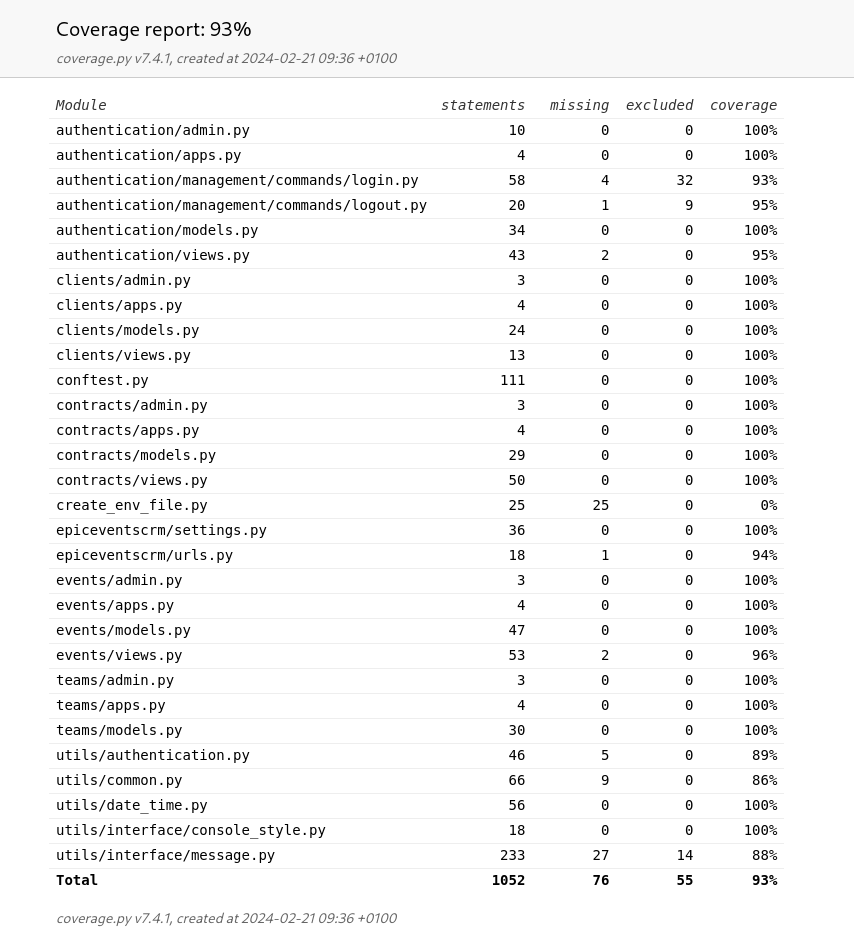
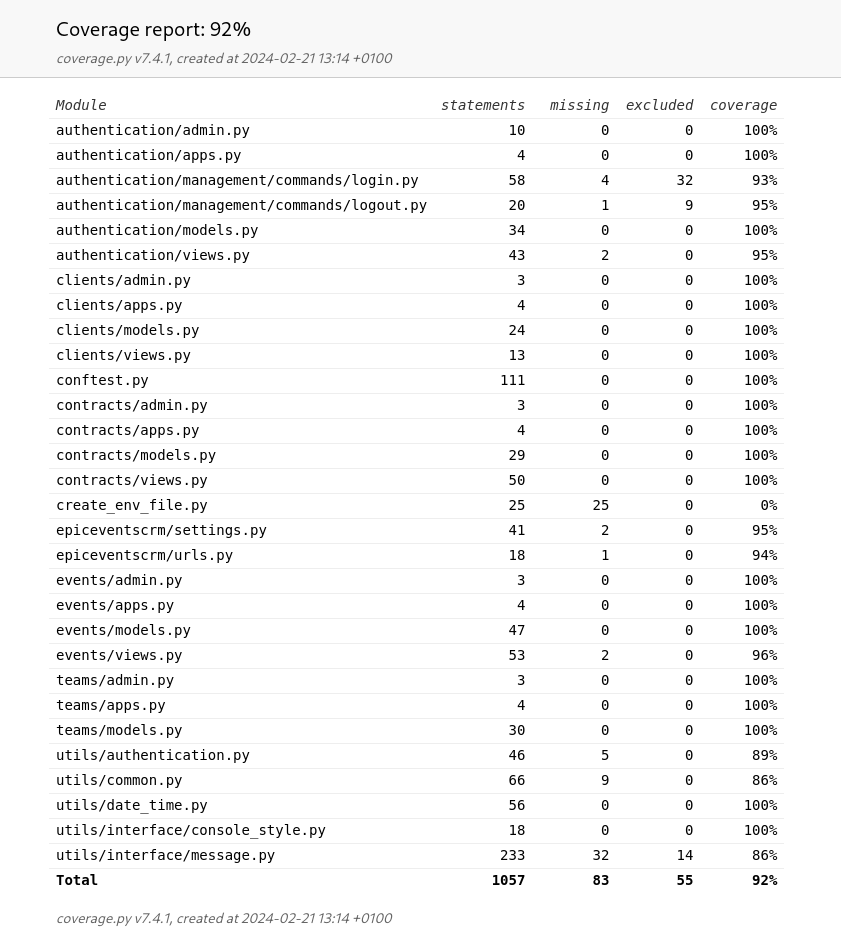
Fix login message condition and update readme

diff --git a/utils/tests.py b/utils/tests.py
@@ -280,12 +280,6 @@ class TestInterface:
         assert valid is True
         assert contract == signed_contract
 
-    def test_validate_uuid_value_error(self, capsys):
-        with pytest.raises(SystemExit):
-            valid, contract = message.validate_uuid("pdovdjusn")
-        capture = capsys.readouterr()
-        assert "Invalid id" in capture.out
-
     def test_prompt_for_contract_id(self, capsys, monkeypatch, signed_contract):
         monkeypatch.setattr("sys.stdin", io.StringIO(str(signed_contract.id)))
         result = message.prompt_for_contract_id()

diff --git a/authentication/management/commands/login.py b/authentication/management/commands/login.py
@@ -137,7 +137,7 @@ class Command(RichCommand):  # pragma: no cover
             password = ""
 
         auth_data = request_get_token(email, password)
-        if auth_data["token"] is not None:
+        if auth_data["token"] is not None and auth_data["token"].strip() != "":
             self.console.print(
                 "You have successfully logged in with the email "
                 + f"[bold blue]{auth_data['email']}[/bold blue] :smile:",

diff --git a/README.md b/README.md
@@ -264,7 +264,7 @@ To view the report with a test report:
 
         pytest --cov=.
 
-The current coverage is at 93%:
+The current coverage is at 92%:
 
 ![Coverage report](/docs/img/screenshot_2024-02-21_coverage_report.png)
 
